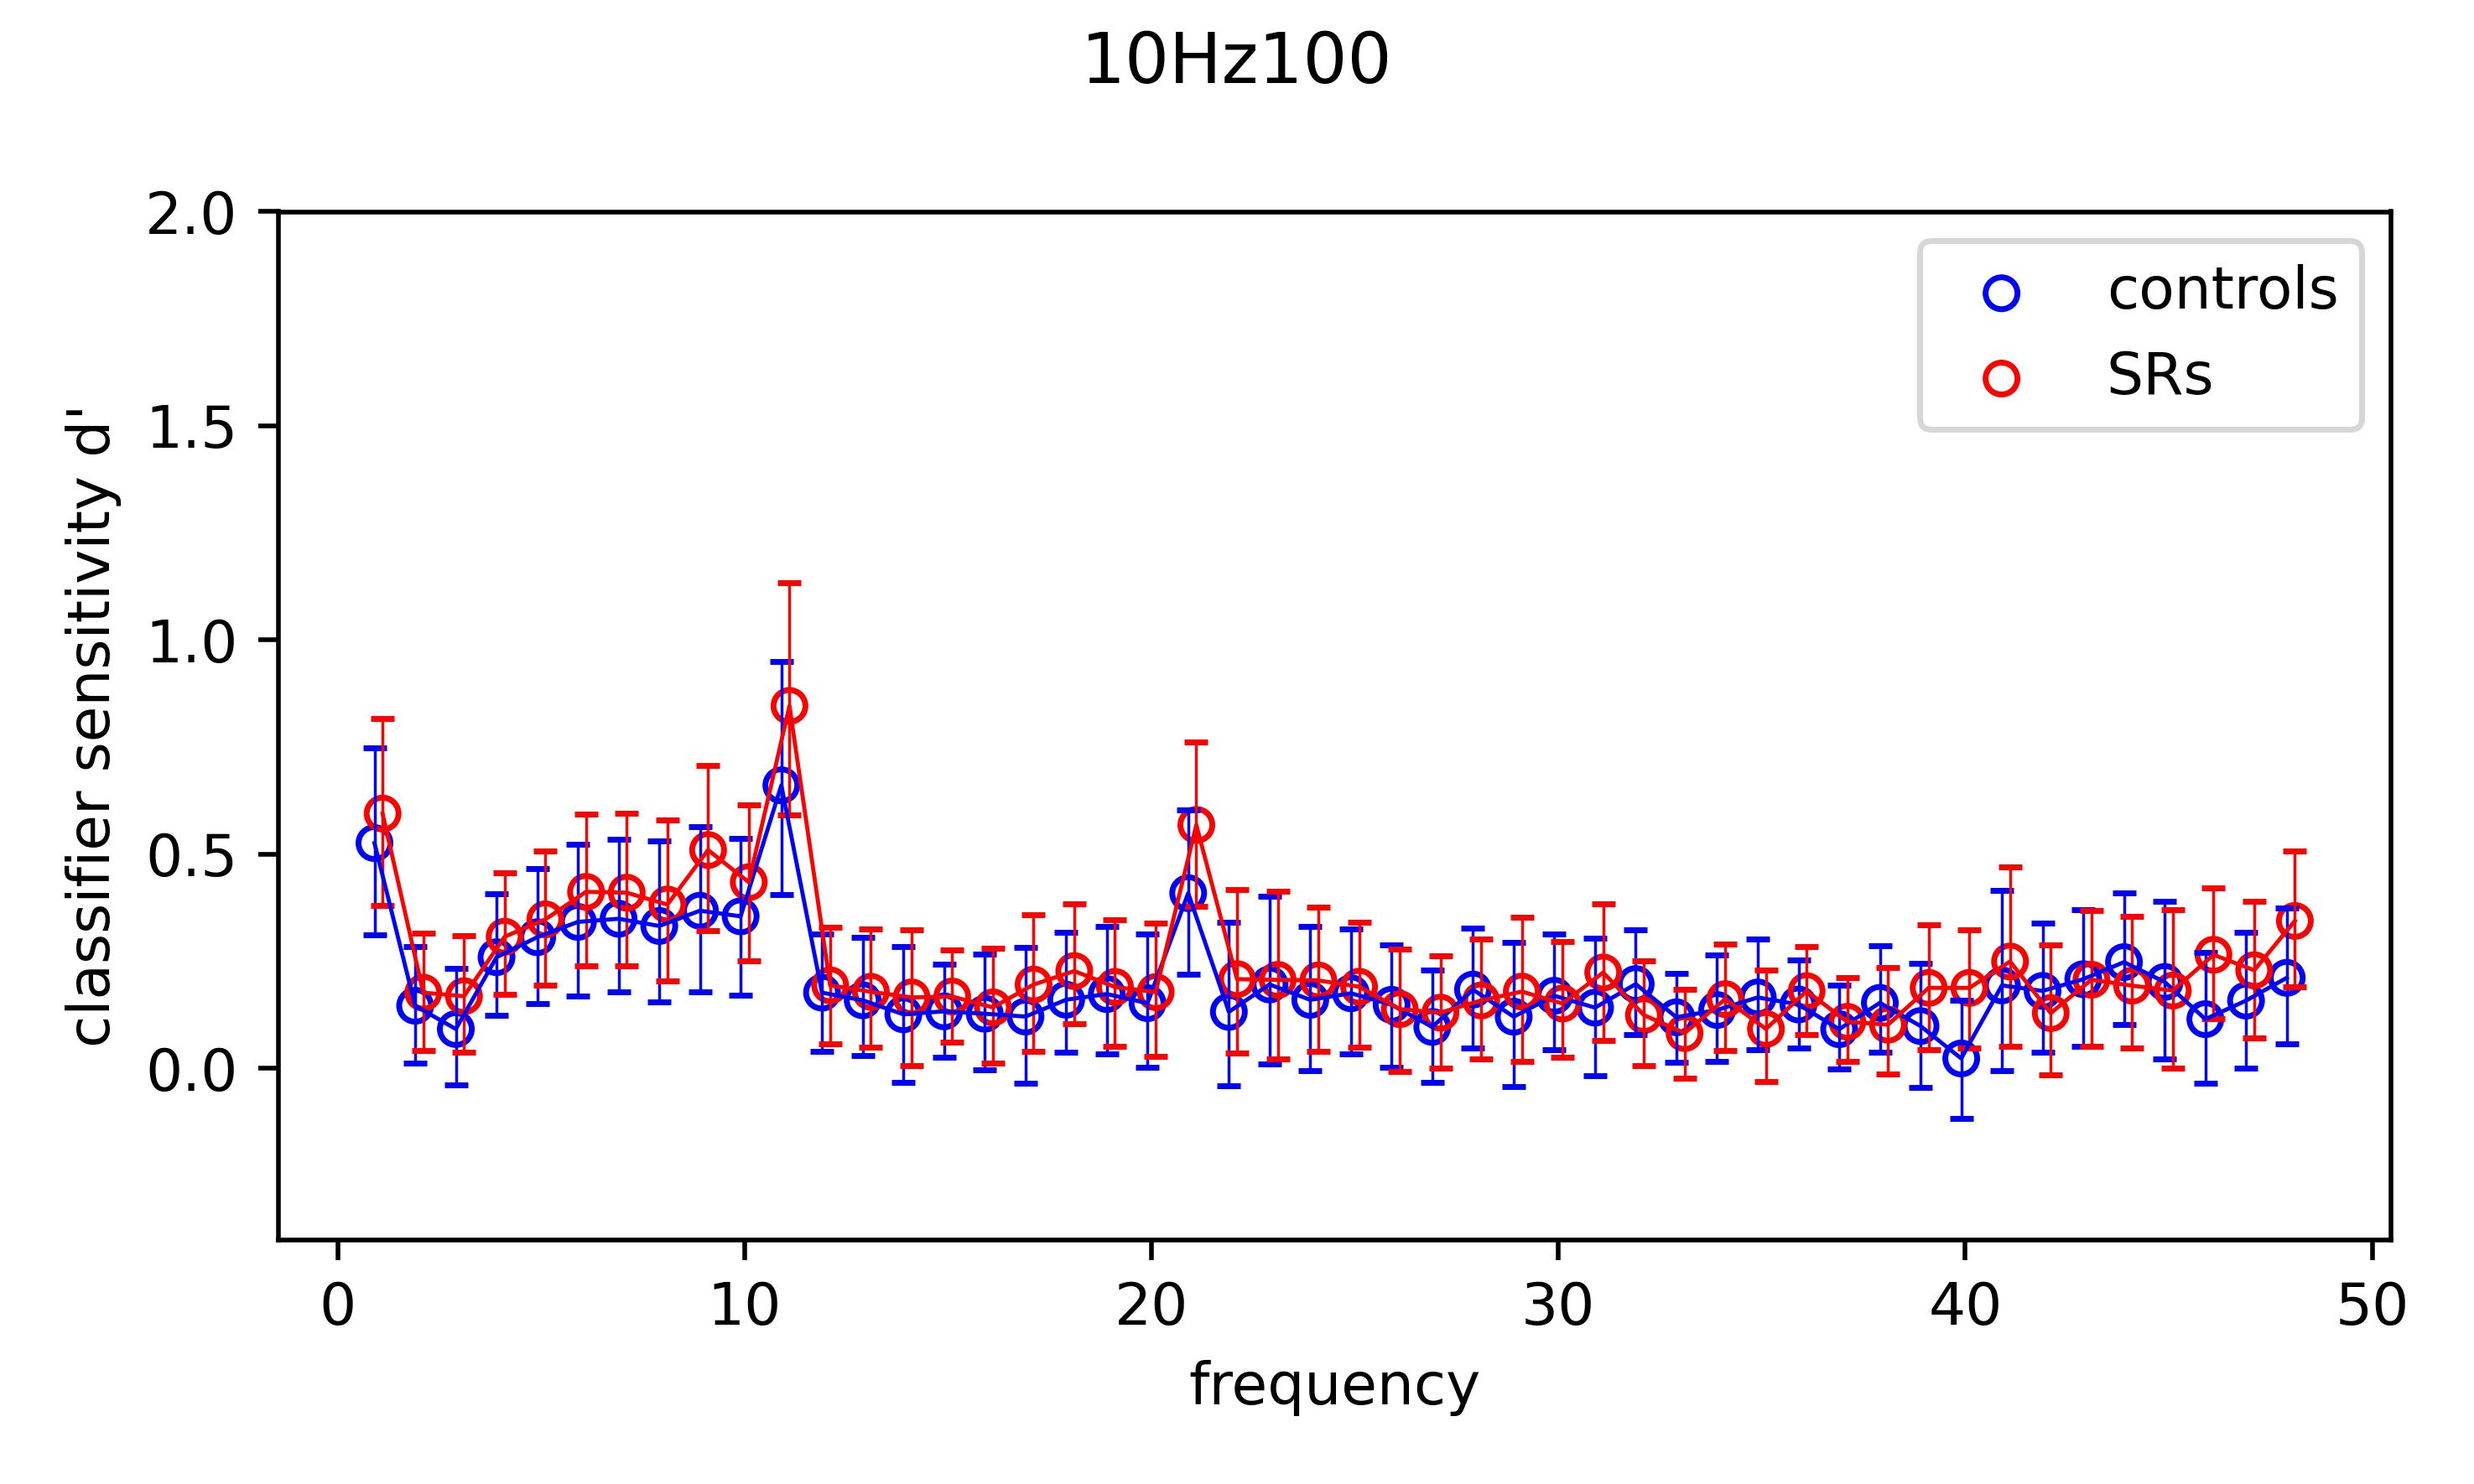
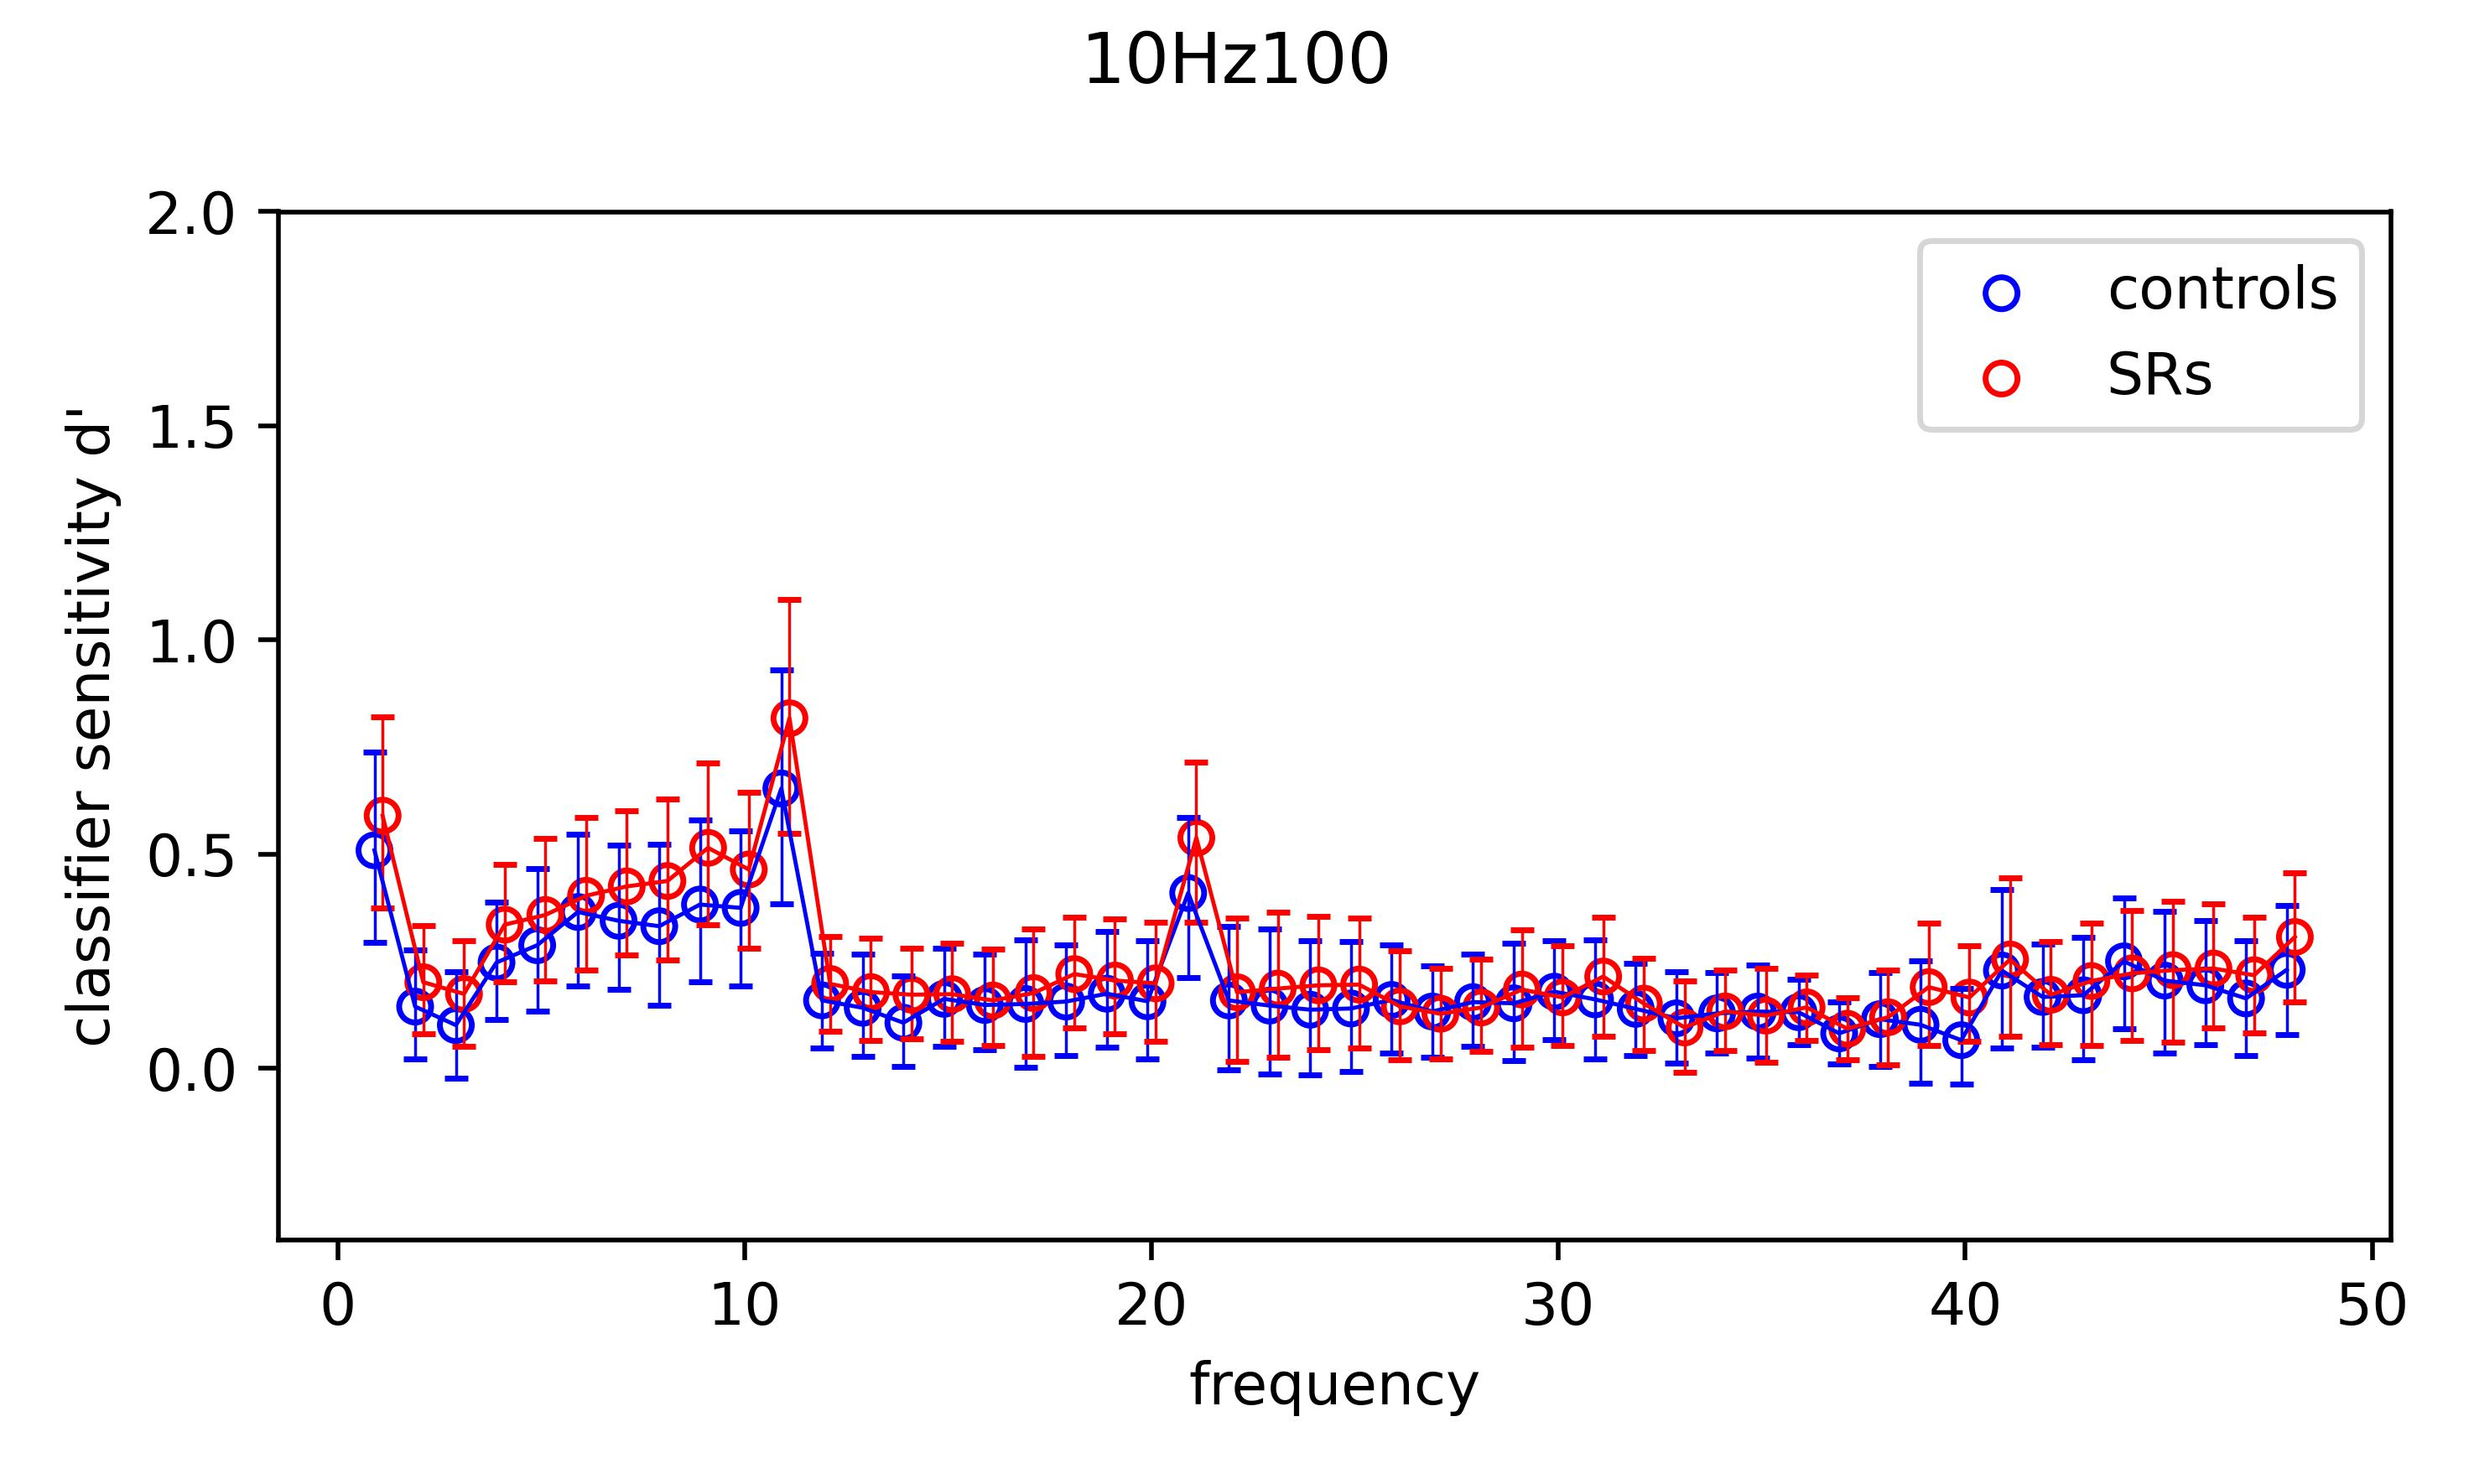
nrep = 100

Changed region(s): [[0.1559, 0.435, 0.9356, 0.7458], [0.1247, 0.5593, 0.1559, 0.5904]]

diff --git a/analysis_expt3.py b/analysis_expt3.py
@@ -103,8 +103,8 @@ for i in range(len(conditions)):
 
 # Plot individual subject data
 plt.figure(figsize=(18*cm, 18*cm))
-plt.suptitle('Experiment 3 - 1')
-for id_ in range(9):
+plt.suptitle('Experiment 3 - 3')
+for id_ in range(18, 26):
 
     subj = results[id_]
     subj_id = subj.replace('_experiment_3.npy', '')
@@ -115,8 +115,10 @@ for id_ in range(9):
     for j in range(len(conditions)):
         if id_ < 9:
             id_pl = id_
-        else:
+        elif id_ < 18:
             id_pl = id_ - 9
+        else:
+            id_pl = id_ - 18
         plt.subplot(3, 3, id_pl + 1)
         # true data
         prc_ = np.percentile(data_[:, j, :], (25, 50, 75), axis=0)
@@ -147,4 +149,4 @@ for id_ in range(9):
 
 plt.tight_layout()
 plt.subplots_adjust(wspace=0.3, hspace=0.3)
-plt.savefig(os.path.join(main_dir, 'results', 'figures', 'Experiment_3_' + 'subj_1-9' + '.jpg'), dpi=500)
+plt.savefig(os.path.join(main_dir, 'results', 'figures', 'Experiment_3_' + 'subj_19-26' + '.jpg'), dpi=500)
